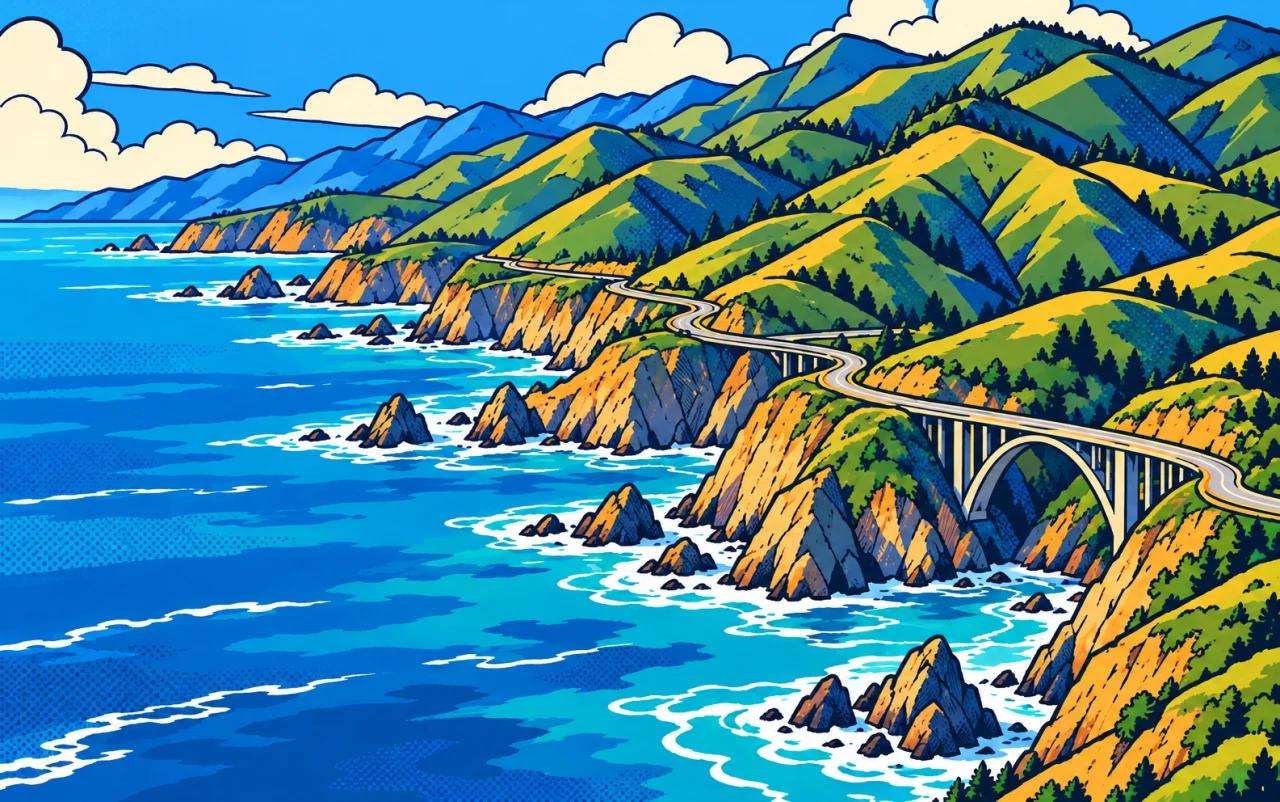
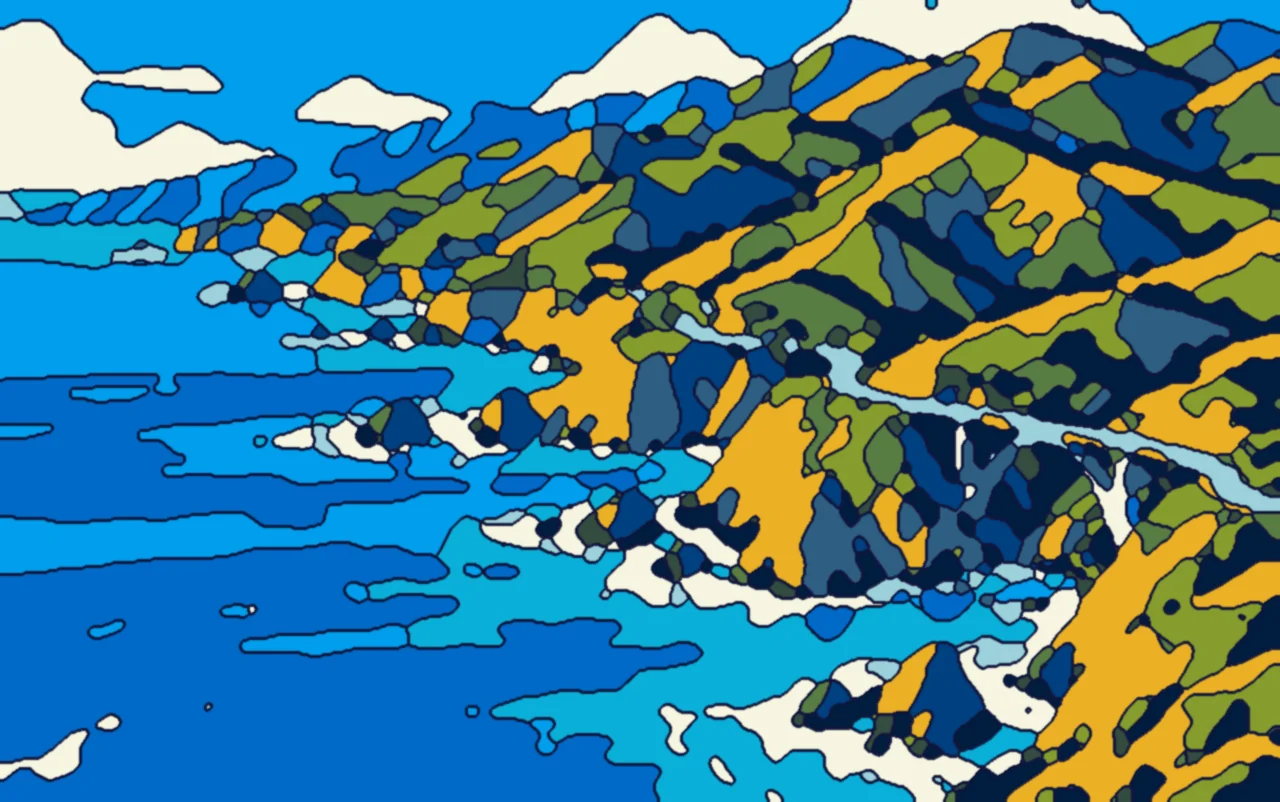
refine(desk): flatten wallpapers into a real toon style
The Imagegen wallpapers still read as painterly. Each one is now flattened with
scripts/toon-wallpapers.py: mean-shift smoothing, a 12-colour poster palette,
small islands merged into big shapes, and navy ink on every colour border.
Cache key bumped to toon-v3; the assets are also ~45% smaller.

diff --git a/src/components/features/desk/wallpapers.js b/src/components/features/desk/wallpapers.js
@@ -20,7 +20,7 @@ export function createWallpapers() {
       const img = new Image();
       images.set(key, img);
       img.onload = img.onerror = () => { dirty = true; };
-      img.src = `${process.env.BASE_URL}wallpapers/${key}.webp?v=toon-v2`;
+      img.src = `${process.env.BASE_URL}wallpapers/${key}.webp?v=toon-v3`;
     }
     const img = images.get(key);
     return img.complete && img.naturalWidth ? img : null;

diff --git a/scripts/toon-wallpapers.py b/scripts/toon-wallpapers.py
@@ -1,0 +1,52 @@
+"""Flatten a wallpaper into a toon look: few flat colours, no fine texture, thick ink outlines."""
+import sys
+import cv2
+import numpy as np
+
+src, dst = sys.argv[1], sys.argv[2]
+K = int(sys.argv[3]) if len(sys.argv) > 3 else 9
+dark = "-dark" in src
+
+img = cv2.imread(src)
+H, W = img.shape[:2]
+
+# Work small so fine strokes, halftone and hatching melt away
+small = cv2.resize(img, (W // 2, H // 2), interpolation=cv2.INTER_AREA)
+for _ in range(2):
+    small = cv2.pyrMeanShiftFiltering(small, sp=6, sr=18)
+small = cv2.medianBlur(small, 5)
+
+# Quantise to a small poster palette (in Lab so the clusters are perceptual)
+lab = cv2.cvtColor(small, cv2.COLOR_BGR2LAB).reshape(-1, 3).astype(np.float32)
+crit = (cv2.TERM_CRITERIA_EPS + cv2.TERM_CRITERIA_MAX_ITER, 30, 0.5)
+_, labels, centers = cv2.kmeans(lab, K, None, crit, 4, cv2.KMEANS_PP_CENTERS)
+labels = labels.reshape(small.shape[:2]).astype(np.uint8)
+
+# Mode filter: tiny islands take their neighbours' colour, giving big chunky shapes
+for _ in range(2):
+    votes = np.stack([cv2.blur((labels == k).astype(np.float32), (5, 5)) for k in range(K)])
+    labels = votes.argmax(0).astype(np.uint8)
+votes = np.stack([cv2.blur((labels == k).astype(np.float32), (9, 9)) for k in range(K)])
+labels = votes.argmax(0).astype(np.uint8)
+
+# Back to full size with smooth (not pixelated) region borders
+votes = np.stack([cv2.GaussianBlur(cv2.resize((labels == k).astype(np.float32), (W, H), interpolation=cv2.INTER_LINEAR), (0, 0), 2) for k in range(K)])
+labels = votes.argmax(0).astype(np.uint8)
+
+# Punch the palette up a little: more saturation, poster-like
+pal = cv2.cvtColor(centers.reshape(1, K, 3).astype(np.uint8), cv2.COLOR_LAB2BGR)
+hsv = cv2.cvtColor(pal, cv2.COLOR_BGR2HSV).astype(np.float32)
+hsv[..., 1] = np.clip(hsv[..., 1] * 1.15, 0, 255)
+pal = cv2.cvtColor(hsv.astype(np.uint8), cv2.COLOR_HSV2BGR)[0]
+out = pal[labels]
+
+# Ink: every border between colour regions becomes a thick dark navy line
+edges = np.zeros((H, W), np.uint8)
+edges[:, 1:] |= (labels[:, 1:] != labels[:, :-1]).astype(np.uint8)
+edges[1:, :] |= (labels[1:, :] != labels[:-1, :]).astype(np.uint8)
+edges = cv2.dilate(edges * 255, cv2.getStructuringElement(cv2.MORPH_ELLIPSE, (3, 3)))
+edges = cv2.GaussianBlur(edges, (0, 0), 0.8).astype(np.float32)[..., None] / 255
+ink = np.array([60, 22, 18] if not dark else [40, 12, 10], np.float32)  # BGR navy
+out = (out.astype(np.float32) * (1 - edges) + ink * edges).astype(np.uint8)
+
+cv2.imwrite(dst, out)

diff --git a/public/wallpapers/README.md b/public/wallpapers/README.md
@@ -1,6 +1,6 @@
 # Toon wallpaper collection
 
-Revision 2: redrawn with the built-in Imagegen tool after the initial painterly images proved too realistic. Thick ink contours, simplified flat shapes, cel shading, halftone dots, and graphic hatching. Five choices, each with automatic day/night artwork. Final project assets are the ten adjacent WebP files at 1280px width.
+Revision 3: the Imagegen output below was still too painterly, so every file is flattened with `scripts/toon-wallpapers.py` (mean-shift smoothing, a 12-colour poster palette, small islands merged, navy ink on every colour border). Revision 2: redrawn with the built-in Imagegen tool after the initial painterly images proved too realistic. Thick ink contours, simplified flat shapes, cel shading, halftone dots, and graphic hatching. Five choices, each with automatic day/night artwork. Final project assets are the ten adjacent WebP files at 1280px width.
 
 ## Exact revision prompts
 
